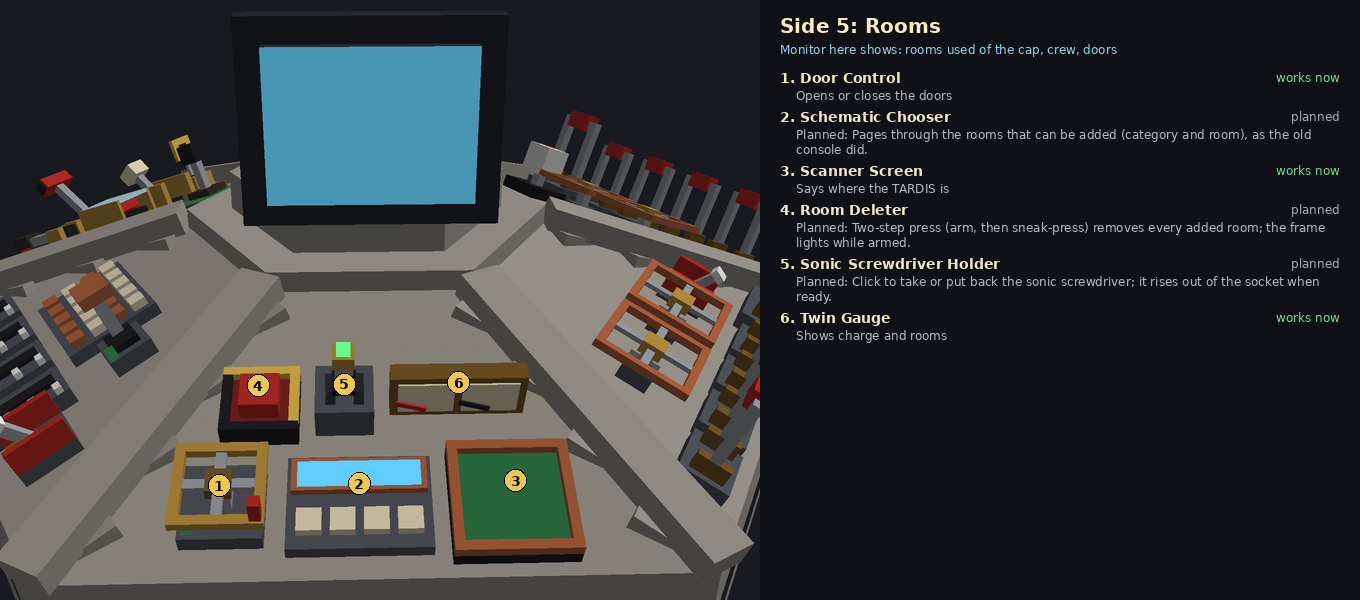
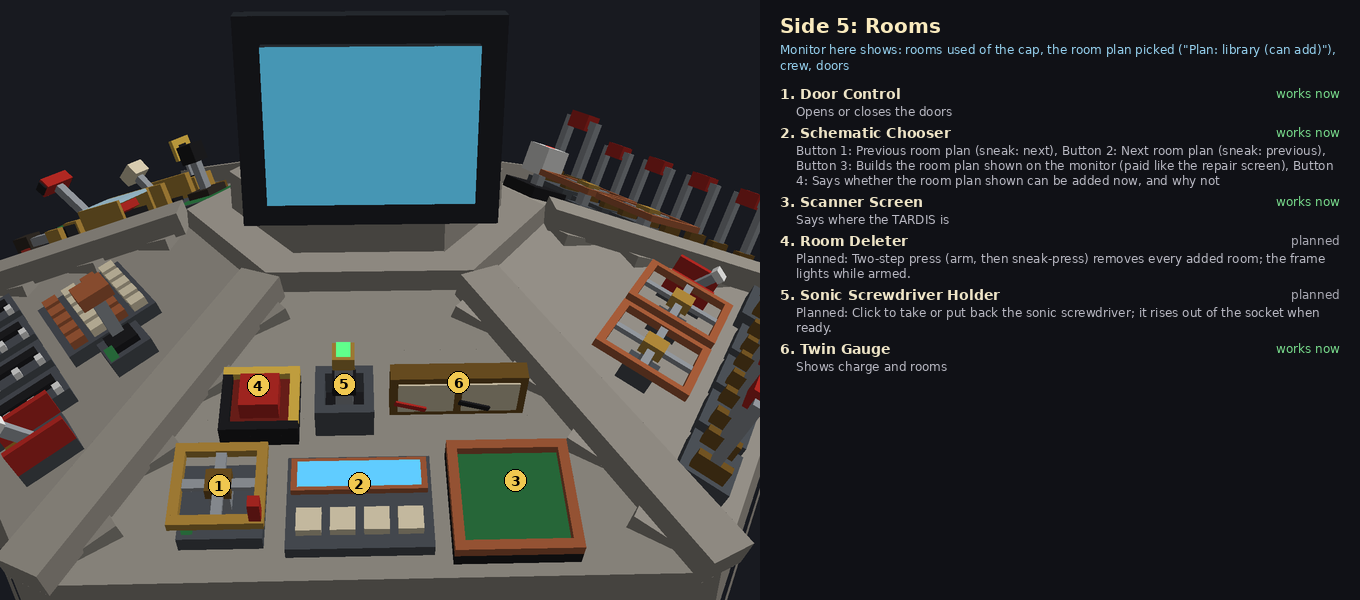
TARDIS console: fast return and schema chooser work
Fast return arms going back to where the console last took off from (a hop,
or a jump through an open destination in that dimension). The schema chooser
pages the room plans, builds the one shown and says why it can't be added;
the Rooms side's monitor names the picked plan. Game test covers both.

Claude-Session: https://claude.ai/code/session_011VYsPYoCVtNcoavUYpau2n

Changed region(s): [[0.5559, 0.09, 0.9882, 0.63], [0.7721, 0.06, 0.9882, 0.09], [0.9265, 0.57, 0.9882, 0.6]]

diff --git a/tardis/src/main/java/com/porcupinestudios/tardisrb/console/ConsoleControls.java b/tardis/src/main/java/com/porcupinestudios/tardisrb/console/ConsoleControls.java
@@ -13,6 +13,7 @@ import com.porcupinestudios.tardisrb.progression.Destination;
 import com.porcupinestudios.tardisrb.progression.TardisContent;
 import com.porcupinestudios.tardisrb.progression.Tuning;
 import com.porcupinestudios.tardisrb.progression.Unlocks;
+import com.porcupinestudios.tardisrb.repair.Repairs;
 import java.util.ArrayList;
 import java.util.List;
 import java.util.Map;
@@ -20,8 +21,11 @@ import java.util.Optional;
 import java.util.TreeMap;
 import net.minecraft.core.BlockPos;
 import net.minecraft.core.Direction;
+import net.minecraft.core.GlobalPos;
+import net.minecraft.core.registries.Registries;
 import net.minecraft.nbt.CompoundTag;
 import net.minecraft.network.chat.Component;
+import net.minecraft.resources.ResourceKey;
 import net.minecraft.resources.ResourceLocation;
 import net.minecraft.server.MinecraftServer;
 import net.minecraft.server.level.ServerLevel;
@@ -46,6 +50,9 @@ import net.minecraft.world.phys.Vec3;
  * <li>{@code time0}..: one digit (0-9) of the target time each; {@code time_unit}: what the digits count (minutes,
  * hours...: tuning {@code console.time}); {@code time_from}: off = that long ago, on = that long after the beginning
  * of time. Stored and shown only until time travel is built.</li>
+ * <li>{@code fast_return}: arms (or disarms) going back: the next take-off returns to where the TARDIS last took off
+ * from. {@code schema_prev} / {@code schema_next}: page through the rooms that can be added; {@code add_room} builds
+ * the picked one (paid like the repair screen); {@code schema_info} says whether it can be added now.</li>
  * <li>{@code jump}: takes off for the set coordinates: a hop in this dimension or a jump to the picked one.</li>
  * <li>{@code screen} says where the TARDIS is; {@code door} opens or shuts the doors; {@code none} only moves.</li>
  * <li>Older ones still load: {@code x}/{@code y}/{@code z}, {@code x_up}..{@code z_down}, {@code step},
@@ -59,8 +66,9 @@ import net.minecraft.world.phys.Vec3;
 public final class ConsoleControls {
     /** Actions with no slot number. */
     public static final List<String> ACTIONS = List.of("screen", "relative", "land", "save", "memory", "facing",
-            "destination", "random", "jump", "handbrake", "door", "none", "time_from", "time_unit", "x", "y", "z",
-            "x_up", "x_down", "y_up", "y_down", "z_up", "z_down", "step", "reset", "hop");
+            "destination", "random", "jump", "handbrake", "door", "none", "time_from", "time_unit", "fast_return",
+            "schema_prev", "schema_next", "add_room", "schema_info", "x", "y", "z", "x_up", "x_down", "y_up", "y_down",
+            "z_up", "z_down", "step", "reset", "hop");
     /** What gauges can show ({@link #values}). */
     public static final List<String> VALUES = List.of("charge", "rooms");
 
@@ -300,6 +308,42 @@ public final class ConsoleControls {
                 return Component.translatableWithFallback("tardis_rb.console.random", "Coordinates set at random: %s %s",
                         signed(axisValue(console, 'x')), signed(axisValue(console, 'z')));
             }
+            case "fast_return" -> {
+                if (lastSpot(tardis).isEmpty()) {
+                    console.setState("fast_return", 0);
+                    return Component.translatableWithFallback("tardis_rb.console.no_return",
+                            "The TARDIS hasn't flown anywhere to go back from yet");
+                }
+                console.setState("fast_return", console.state("fast_return") == 0 ? 1 : 0);
+                return console.state("fast_return") != 0
+                        ? Component.translatableWithFallback("tardis_rb.console.return_on",
+                                "Fast return set: the next take-off goes back to %s", spotText(lastSpot(tardis).get()))
+                        : Component.translatableWithFallback("tardis_rb.console.return_off", "Fast return off");
+            }
+            case "schema_prev", "schema_next" -> {
+                List<ResourceLocation> rooms = schemas();
+                if (rooms.isEmpty()) {
+                    return Component.translatableWithFallback("tardis_rb.console.no_schemas", "No room plans");
+                }
+                int by = (action.equals("schema_next") ? 1 : -1) * dir;
+                console.setState("schema", Math.floorMod(console.state("schema") + by, rooms.size()));
+                return Component.translatableWithFallback("tardis_rb.console.schema", "Room plan: %s",
+                        roomName(rooms.get(console.state("schema"))));
+            }
+            case "schema_info", "add_room" -> {
+                Optional<ResourceLocation> room = schema(console);
+                if (room.isEmpty()) {
+                    return Component.translatableWithFallback("tardis_rb.console.no_schemas", "No room plans");
+                }
+                if (action.equals("schema_info")) {
+                    return Rooms.blocked(server, tardis, room.get(), player).orElse(Component
+                            .translatableWithFallback("tardis_rb.console.schema_ok", "%s can be added",
+                                    roomName(room.get())));
+                }
+                Repairs.Outcome added = Rooms.add(server, tardis, room.get(), player);
+                return added.problem().orElse(Component.translatableWithFallback("tardis_rb.console.room_added",
+                        "%s added", roomName(room.get())));
+            }
             case "time_unit" -> {
                 int units = Math.max(1, TardisContent.tuning().console().time().units().size());
                 console.setState("time_unit", Math.floorMod(console.state("time_unit") + dir, units));
@@ -400,7 +444,16 @@ public final class ConsoleControls {
         if (tardis.location().isEmpty()) {
             return Flight.Outcome.fail("tardis_rb.hop.nowhere", "The TARDIS isn't standing anywhere");
         }
-        BlockPos here = tardis.location().get().pos();
+        GlobalPos from = tardis.location().get();
+        if (console.state("fast_return") != 0 && lastSpot(tardis).isPresent()) {
+            Flight.Outcome back = goBack(server, tardis, lastSpot(tardis).get(), console, player);
+            if (back.done()) {
+                console.setState("fast_return", 0);
+                remember(tardis, from);
+            }
+            return back;
+        }
+        BlockPos here = from.pos();
         BlockPos target = target(console, here);
         Optional<Direction> facing = console.hasState("facing")
                 ? Optional.of(Direction.from2DDataValue(console.state("facing"))) : Optional.empty();
@@ -414,8 +467,77 @@ public final class ConsoleControls {
             target = new BlockPos(target.getX(), level.getHeight(Heightmap.Types.MOTION_BLOCKING_NO_LEAVES,
                     target.getX(), target.getZ()), target.getZ());
         }
-        return sameWorld ? Flight.hop(server, tardis, target, facing, player)
+        Flight.Outcome out = sameWorld ? Flight.hop(server, tardis, target, facing, player)
                 : Flight.jump(server, tardis, to.get(), Optional.of(target), facing, player);
+        if (out.done()) {
+            remember(tardis, from);
+        }
+        return out;
+    }
+
+    /** Flies back to {@code spot}: a hop in the same dimension, else a jump through an open destination there. */
+    private static Flight.Outcome goBack(MinecraftServer server, TardisRecord tardis, GlobalPos spot,
+            ConsoleBlockEntity console, Optional<ServerPlayer> player) {
+        Optional<Direction> facing = console.hasState("facing")
+                ? Optional.of(Direction.from2DDataValue(console.state("facing"))) : Optional.empty();
+        if (spot.dimension().equals(tardis.location().get().dimension())) {
+            return Flight.hop(server, tardis, spot.pos(), facing, player);
+        }
+        for (ResourceLocation id : Destinations.open(server, tardis, player)) {
+            if (TardisContent.destination(id).map(d -> d.dimension().equals(spot.dimension())).orElse(false)) {
+                return Flight.jump(server, tardis, id, Optional.of(spot.pos()), facing, player);
+            }
+        }
+        return Flight.Outcome.fail("tardis_rb.console.return_closed", "The way back to %s isn't open",
+                spot.dimension().location().toString());
+    }
+
+    /** Where the TARDIS last took off from by the console (for fast return), if anywhere. */
+    public static Optional<GlobalPos> lastSpot(TardisRecord tardis) {
+        CompoundTag tag = tardis.moduleData("console");
+        if (!tag.contains("last_dimension")) {
+            return Optional.empty();
+        }
+        ResourceLocation dim = ResourceLocation.tryParse(tag.getString("last_dimension"));
+        return dim == null ? Optional.empty()
+                : Optional.of(GlobalPos.of(ResourceKey.create(Registries.DIMENSION,
+                        dim), BlockPos.of(tag.getLong("last_pos"))));
+    }
+
+    private static void remember(TardisRecord tardis, GlobalPos from) {
+        CompoundTag tag = tardis.moduleData("console");
+        tag.putString("last_dimension", from.dimension().location().toString());
+        tag.putLong("last_pos", from.pos().asLong());
+        tardis.setModuleData("console", tag);
+    }
+
+    private static String spotText(GlobalPos spot) {
+        return spot.pos().getX() + " " + spot.pos().getY() + " " + spot.pos().getZ() + " in "
+                + spot.dimension().location().getPath();
+    }
+
+    /** The rooms the schema chooser pages through, in id order. */
+    public static List<ResourceLocation> schemas() {
+        return List.copyOf(new TreeMap<>(TardisContent.get().rooms()).keySet());
+    }
+
+    /** The room the schema chooser shows now. */
+    public static Optional<ResourceLocation> schema(ConsoleBlockEntity console) {
+        List<ResourceLocation> rooms = schemas();
+        return rooms.isEmpty() ? Optional.empty()
+                : Optional.of(rooms.get(Math.floorMod(console.state("schema"), rooms.size())));
+    }
+
+    /** The schema chooser's room in words, with whether it can be added now. */
+    public static String schemaText(MinecraftServer server, TardisRecord tardis, ConsoleBlockEntity console) {
+        return schema(console).map(r -> "Plan: " + roomName(r).getString()
+                + (Rooms.blocked(server, tardis, r, Optional.empty()).isEmpty() ? " (can add)" : ""))
+                .orElse("No room plans");
+    }
+
+    private static Component roomName(ResourceLocation id) {
+        return Component.translatableWithFallback("tardis_rb.room_name." + id.getNamespace() + "." + id.getPath(),
+                id.getPath());
     }
 
     /** Turns one coordinate slot up ({@code dir} 1) or down (-1) within its range, or round if it cycles. */
@@ -485,6 +607,9 @@ public final class ConsoleControls {
                 out.add(pick.map(d -> "Target " + name(d).getString() + "[" + TardisContent.destination(d)
                         .map(x -> x.dimension().location()).orElse(d) + "]").orElse("No other dimensions"));
                 out.add("Target time: " + timeText(console));
+                if (console.state("fast_return") != 0) {
+                    out.add(lastSpot(tardis).map(g -> "Fast return to " + spotText(g)).orElse("Fast return: nowhere"));
+                }
                 out.add("Now in " + tardis.location().map(g -> g.dimension().location().toString()).orElse("-"));
             }
             case 3 -> {
@@ -507,6 +632,7 @@ public final class ConsoleControls {
             default -> {
                 out.add("ROOMS");
                 out.add("Rooms " + tardis.roomCount() + "/" + Rooms.cap(tardis));
+                out.add(schemaText(server, tardis, console));
                 out.add("Crew " + (tardis.crew().size() + (tardis.owner().isPresent() ? 1 : 0)));
                 out.add("Doors " + (Doors.isOpen(tardis) ? "open" : "shut"));
                 out.add("Stage " + tardis.stage().map(ResourceLocation::getPath).orElse("-"));

diff --git a/tardis/tools/console_layout.py b/tardis/tools/console_layout.py
@@ -64,6 +64,11 @@ ACTIONS = {
     "handbrake": "Handbrake on/off (on: the TARDIS can't take off)",
     "door": "Opens or closes the doors",
     "none": "Moves only (planned)",
+    "fast_return": "Fast return on/off: the next take-off goes back to where the TARDIS last took off from",
+    "schema_prev": "Previous room plan (sneak: next)",
+    "schema_next": "Next room plan (sneak: previous)",
+    "add_room": "Builds the room plan shown on the monitor (paid like the repair screen)",
+    "schema_info": "Says whether the room plan shown can be added now, and why not",
     "time_from": "Target time counts back from now (12 minutes ago) or, flipped, from the beginning of time",
     "time_unit": "Picks what the time drums count: " + ", ".join(u["name"] for u in TUNING["time"]["units"])
                  + " (sneak: back)",
@@ -100,7 +105,7 @@ SIDES = [
      "rows": [(0.22, [("dimension_dial", "dimension_dial", {"knob": "destination"}, CORE),
                       ("time_lever", "time_lever", {"lever": "time_from"}, NAV1),
                       ("time_unit_dial", "time_unit_dial", {"pointer": "time_unit"}, NAV1),
-                      ("fast_return", "fast_return", {}, NAV1)]),
+                      ("fast_return", "fast_return", {"button": "fast_return"}, NAV1)]),
               (0.6, [("time_drums", "time_drums", {f"drum_{n + 1}": f"time{n}" for n in range(3)}, NAV1),
                      ("telepathic_circuits", "telepathic_circuits", {}, NAV1)])]},
     {"theme": "Exterior", "monitor": "landed or not, facing, handbrake, charge, doors",
@@ -116,9 +121,12 @@ SIDES = [
                + [("land_switch", "toggle_switch", {"bat": "land"}, NAV1)]),
               (0.58, [("memory_bank", "memory_bank", {f"slot_{n}": "memory" for n in range(20)}, NAV1),
                       ("save_switch", "push_switch", {"rod": "save"}, NAV1)])]},
-    {"theme": "Rooms", "monitor": "rooms used of the cap, crew, doors",
+    {"theme": "Rooms",
+     "monitor": "rooms used of the cap, the room plan picked (\"Plan: library (can add)\"), crew, doors",
      "rows": [(0.22, [("door_control", "door_control", {"wheel": "door"}, NAV1),
-                      ("schema_chooser", "schema_chooser", {}, NAV1),
+                      ("schema_chooser", "schema_chooser",
+                       {"btn_1": "schema_prev", "btn_2": "schema_next", "btn_3": "add_room", "btn_4": "schema_info"},
+                       NAV1),
                       ("scanner_screen", "scanner_screen", {"screen": "screen"}, NAV1)]),
               (0.58, [("room_deleter", "room_deleter", {}, NAV1),
                       ("screwdriver_holder", "screwdriver_holder", {}, NAV1),

diff --git a/tardis/src/main/java/com/porcupinestudios/tardisrb/gametest/ConsoleTests.java b/tardis/src/main/java/com/porcupinestudios/tardisrb/gametest/ConsoleTests.java
@@ -12,6 +12,7 @@ import java.util.Optional;
 import net.minecraft.core.BlockPos;
 import net.minecraft.gametest.framework.GameTest;
 import net.minecraft.gametest.framework.GameTestHelper;
+import net.minecraft.resources.ResourceLocation;
 import net.minecraft.server.MinecraftServer;
 import net.minecraft.world.level.levelgen.Heightmap;
 import net.neoforged.neoforge.gametest.GameTestHolder;
@@ -120,6 +121,27 @@ public final class ConsoleTests {
         String said = ConsoleControls.use(server, t, console, demat, "arm", Optional.empty()).getString();
         helper.assertTrue(t.location().get().pos().equals(target),
                 "the dematerialisation lever didn't fly to " + target + ": " + said);
+
+        // fast return: armed, the next pull of the lever goes back to where it took off from
+        t.addCharge(100);
+        ConsoleControls.use(server, t, console, find(shown, "fast_return").get(), "button", Optional.empty());
+        helper.assertTrue(console.state("fast_return") == 1, "the fast return button didn't arm");
+        said = ConsoleControls.use(server, t, console, demat, "arm", Optional.empty()).getString();
+        helper.assertTrue(t.location().get().pos().equals(from), "fast return didn't go back to " + from + ": " + said);
+        helper.assertTrue(console.state("fast_return") == 0, "fast return stayed armed after going back");
+
+        // the schema chooser pages through the room plans and the monitor over the rooms side names the picked one
+        ConsoleBlockEntity.Shown chooser = find(shown, "schema_chooser").get();
+        List<ResourceLocation> plans = ConsoleControls.schemas();
+        helper.assertTrue(plans.size() >= 2, "fewer than two room plans: " + plans);
+        ConsoleControls.use(server, t, console, chooser, "btn_2", Optional.empty());
+        helper.assertTrue(ConsoleControls.schema(console).equals(Optional.of(plans.get(1))),
+                "the next-plan button didn't move to " + plans.get(1));
+        console.setMonitorAngle(-210);
+        List<String> rooms = ConsoleControls.readout(server, t, console);
+        helper.assertTrue(rooms.stream().anyMatch(l -> l.startsWith("Plan: " + plans.get(1).getPath())),
+                "the monitor over the rooms side shows " + rooms);
+        console.setMonitorAngle(Float.NaN);
         helper.succeed();
     }
 }

diff --git a/tardis/src/main/java/com/porcupinestudios/tardisrb/compat/jade/JadeConsole.java b/tardis/src/main/java/com/porcupinestudios/tardisrb/compat/jade/JadeConsole.java
@@ -118,6 +118,9 @@ public final class JadeConsole implements IBlockComponentProvider {
         if (List.of("handbrake", "relative", "land", "save").contains(role)) {
             return Optional.of(onOff(be.state(role) != 0));
         }
+        if (role.startsWith("schema") || role.equals("add_room")) {
+            return ConsoleControls.schema(be).map(r -> Component.literal("Plan: " + r.getPath()));
+        }
         if (role.startsWith("time")) {
             return Optional.of(Component.translatableWithFallback("tardis_rb.jade.time", "Target time: %s",
                     ConsoleControls.timeText(be)));

diff --git a/tardis/docs/console.md b/tardis/docs/console.md
@@ -48,7 +48,13 @@ Read when: the console block/renderer, console controls (data `tardis/control/`)
   - **Jade** (`compat/jade`, compile only `maven.modrinth:jade`, CI puts its jar in the test-build release): a ray
     trace callback hands Jade the console block when `ConsoleAim` finds a control nearer than any block; the tooltip
     names the control (and part), its setting (with the axis total), what a click does and its side.
-  - Test: `ConsoleTests` (X levers = +10, monitor over side 0 shows the target X, target time ago/from the beginning, memory save/load, handbrake, the
+  - **Fast return** (side 2, `fast_return`): arms going back; `takeOff` then flies to where the console last took
+    off from (`ConsoleControls.lastSpot`, saved in the record's module data `console`: `last_dimension`, `last_pos`),
+    a hop or a jump through an open destination in that dimension, and disarms. **Schema chooser** (side 5):
+    `schema_prev`/`schema_next` page the room plans (id order, role `schema`), `add_room` builds it (`Rooms.add`,
+    paid like the repair screen), `schema_info` says why it can't be added. Still planned: room deleter, sonic holder,
+    telepathic circuits, and the exterior side's phase key/lever, thrusters, flight yoke (box as entity/physics).
+  - Test: `ConsoleTests` (X levers = +10, monitor over side 0 shows the target X, target time ago/from the beginning, fast return, schema paging, memory save/load, handbrake, the
     dematerialisation lever flies there). Rendering, clicking and Jade are untried in a client, and none of this has
     compiled yet (CI blocked by GitHub billing, 2026-11-08).
 - Older notes below describe the hand-built controls (`part`, `ctl_*` click boxes): replaced by the above.
